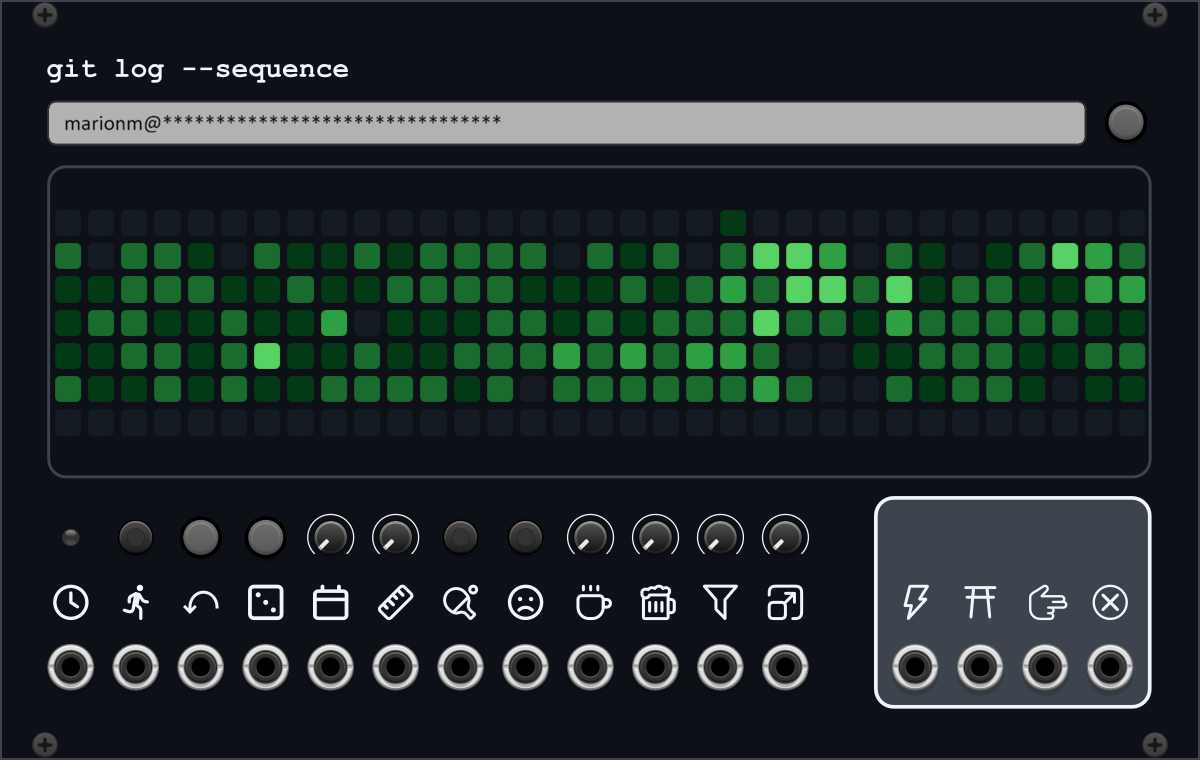
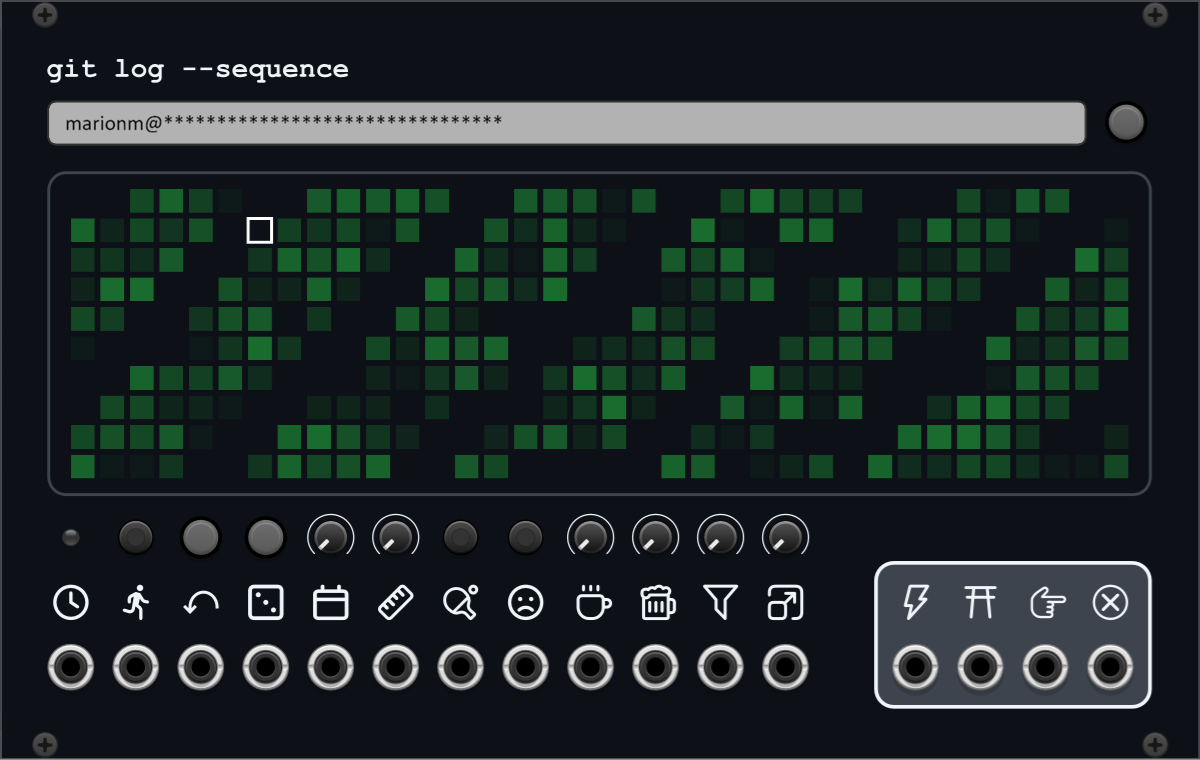
Fix parsing, use loaded and scaled values

Changed region(s): [[0.0308, 0.2118, 0.9867, 0.8171], [0.0, 0.9987, 1.0, 1.0], [0.0617, 0.1513, 0.4008, 0.1816]]

diff --git a/src/seqhub.cpp b/src/seqhub.cpp
@@ -75,7 +75,7 @@ struct Seqhub : Module {
 
   std::string auth;
 
-  std::vector<int> contributionsPerDay;
+  std::vector<float> contributionsPerDay;
   std::string startDate;
 
   std::thread worker;
@@ -200,13 +200,14 @@ struct Seqhub : Module {
 
       DEBUG("request:\n%s", body.c_str());
 
+      // TODO: Safer parsing - the catch(...) won't actually catch json key typo errors
       if (auto res = cli.Post("/graphql", headers, jsonBody.dump(), "application/json")) {
         if (res->status == 200) {
           auto json = nlohmann::json::parse(res->body);
           const auto& contributions = json["data"][responseScope]["contributionsCollection"];
 
           startDate = contributions["startedAt"].get<std::string>();
-          setContributionsPerDay(contributions["contributionsCalendar"]);
+          setContributionsPerDay(contributions["contributionCalendar"]);
 
           logState("refreshContributions");
           refreshStatus.store(RefreshStatus::Idle);
@@ -220,33 +221,46 @@ struct Seqhub : Module {
   }
 
   void setContributionsPerDay(const nlohmann::json& contributions) {
-    std::vector<int> vector;
+    std::vector<int> values;
 
+    int maxValue = 0;
     int weeksSize = (int)contributions["weeks"].size();
     for (int i = weeksSize - 1; i >= 0; --i) {
       const auto& days = contributions["weeks"][i]["contributionDays"];
       int daysSize = (int)days.size();
 
       for (int j = daysSize - 1; j >= 0; --j) {
-        vector.push_back(days[j]["contributionCount"].get<int>());
+        int value = days[j]["contributionCount"].get<int>();
+        values.push_back(value);
 
-        if (vector.size() == 360) {
+        if (value > maxValue) {
+          maxValue = value;
+        }
+
+        if (values.size() == 360) {
           goto finish;
         }
       }
     }
 
-    while (vector.size() < 360) {
-      vector.push_back(0);
+    while (values.size() < 360) {
+      values.push_back(0);
     }
 
-finish:
-    std::reverse(vector.begin(), vector.end());
-    setContributionsPerDay(std::move(vector));
+    finish:
+
+    std::reverse(values.begin(), values.end());
+
+    std::vector<float> normalizedValues;
+    for (int value : values) {
+      normalizedValues.push_back((float)value / maxValue * 10.f);
+    }
+
+    setContributionsPerDay(std::move(normalizedValues));
   }
 
-  void setContributionsPerDay(std::vector<int> vector) {
-    this->contributionsPerDay = std::move(vector);
+  void setContributionsPerDay(std::vector<float> values) {
+    this->contributionsPerDay = std::move(values);
   }
 
   // Token is potentially sensitive - don't hang onto it
@@ -311,6 +325,7 @@ struct AuthField : ui::TextField {
   void onSelectKey(const rack::event::SelectKey& e) override {
     TextField::onSelectKey(e);
 
+    // FIXME: or numpad enter
     if (e.action == GLFW_PRESS && e.key == GLFW_KEY_ENTER) {
       if (module->refreshStatus.load() != Seqhub::RefreshStatus::InProgress) {
         module->auth = text;
@@ -372,13 +387,26 @@ struct Contributions : Widget {
     }
 
     try {
-      for (int i = 0; i < 360; i++) {
-      // for (int i = 0; i < (int)module->contributionsPerDay.size(); i++) {
-        int x = 2 + (i % 36) * 5;
-        int y = 2 + (i / 36) * 5;
+      DEBUG("size: %i", (int)module->contributionsPerDay.size());
+      // TODO: 360 in a 36x10 grid is nice... but is weird with weeks
+      //   Is there a width i can make work that is divisible by 7? (Or tall and render vertically?)
+      //   i guess 35x10 could be ok... can reduce overall width of the module by a bit if it looks weird
+      //   matters less with truly random data... could also consider an "alignment" toggle or something
+      for (int i = 0; i < (int)module->contributionsPerDay.size(); i++) {
+      // for (int i = 0; i < 360; i++) {
+      // for (int i = 0; i < 350; i++) {
+        int x = 4 + (i % 35) * 5;
+        int y = 4 + (i / 35) * 5;
 
-        // int value = module->contributionsPerDay[i];
-        NVGcolor color = nvgRGBA(0, 255, 0, rand() * 200 + 55);
+        // NVGcolor color = nvgRGBA(0, 255, 0, rand() * 200 + 55);
+
+        // TODO: This color formula is not great:
+        //   Github actually uses multiple, quantized colors
+        //   I do need a gradient, but maybe do so with clear cutoffs like them?
+        //   Or, at least pick the right one from their set that works well with alpha
+        //   Also, feels off w/scaling? non-zero but small values are not visible
+        int value = module->contributionsPerDay[i];
+        NVGcolor color = nvgRGBA(25, 108, 46, value / 10.f * 255.f);
 
         nvgBeginPath(args.vg);
         nvgRect(args.vg, mm2px(x), mm2px(y), mm2px(4), mm2px(4));
